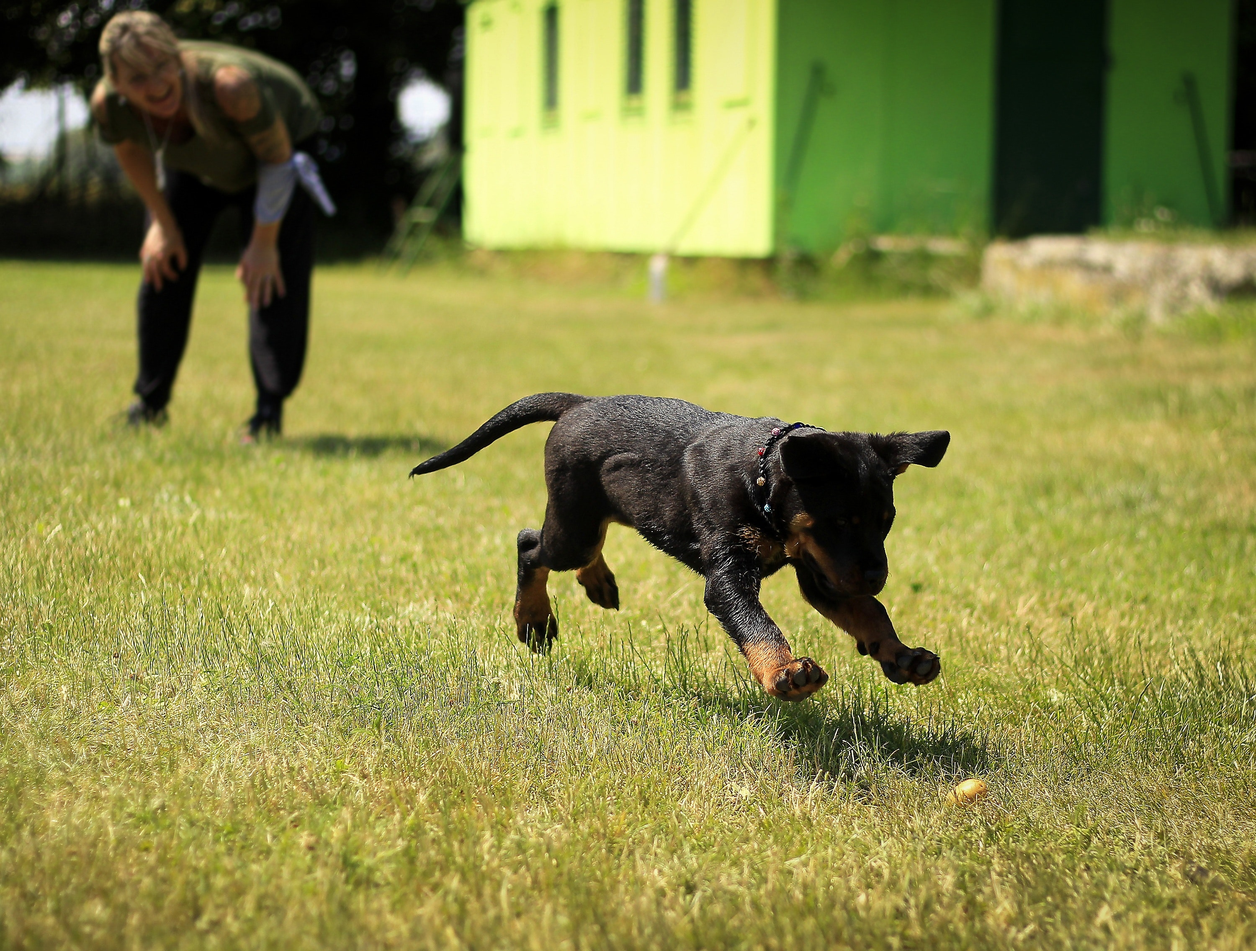
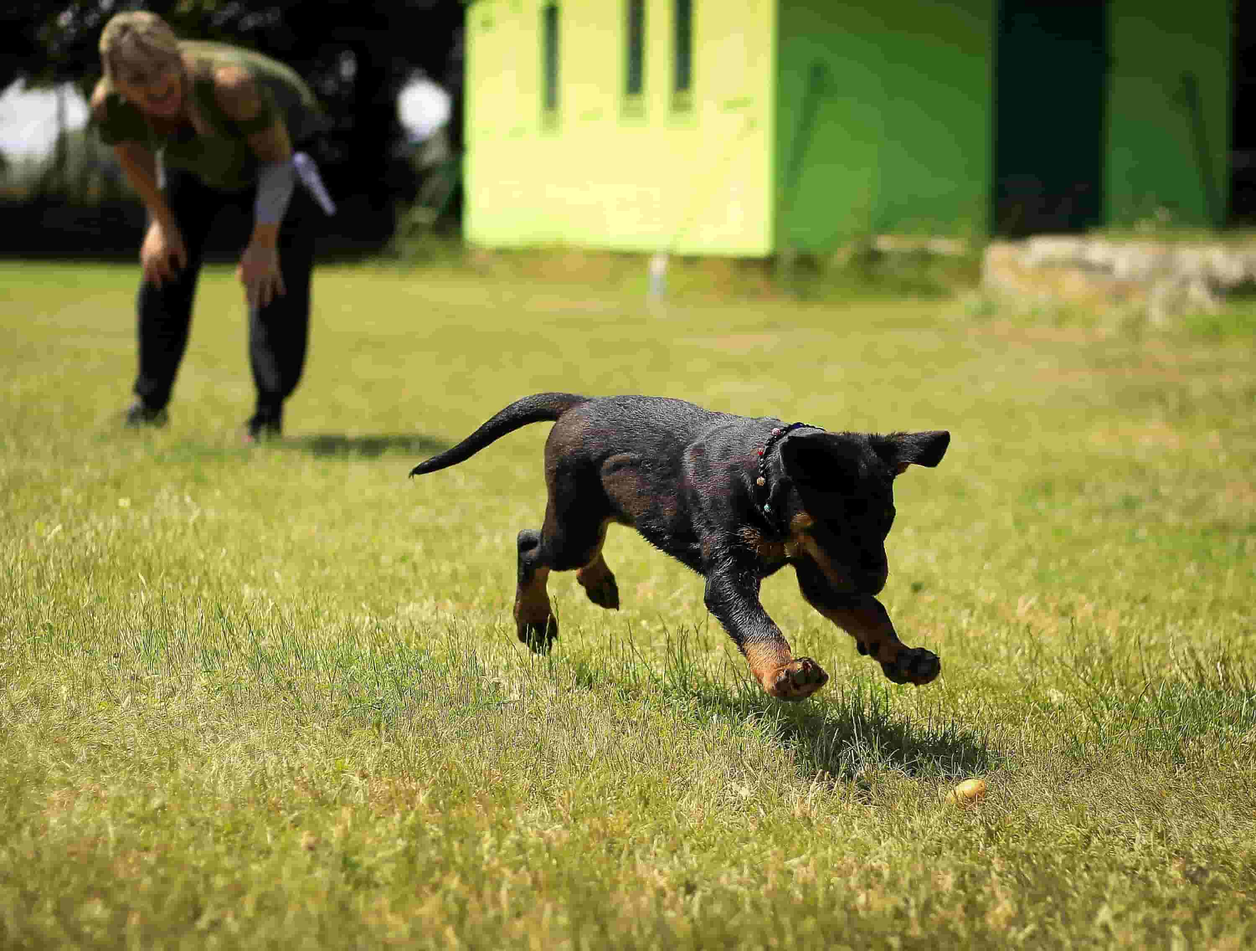
imagens minificadas e barra de navegacao ajustada

diff --git a/js/servicos.js b/js/servicos.js
@@ -14,3 +14,14 @@ function navegar(e) {
         behavior: "smooth"
     })
 }
+
+document.addEventListener('scroll', (e) => {
+    const posicao = 1750
+    const nav =  document.querySelector('.navegacao')
+    if (window.pageYOffset >= posicao){
+        nav.style.opacity = "0"
+    }
+    else {
+        nav.style.opacity = "1" 
+    }
+})
